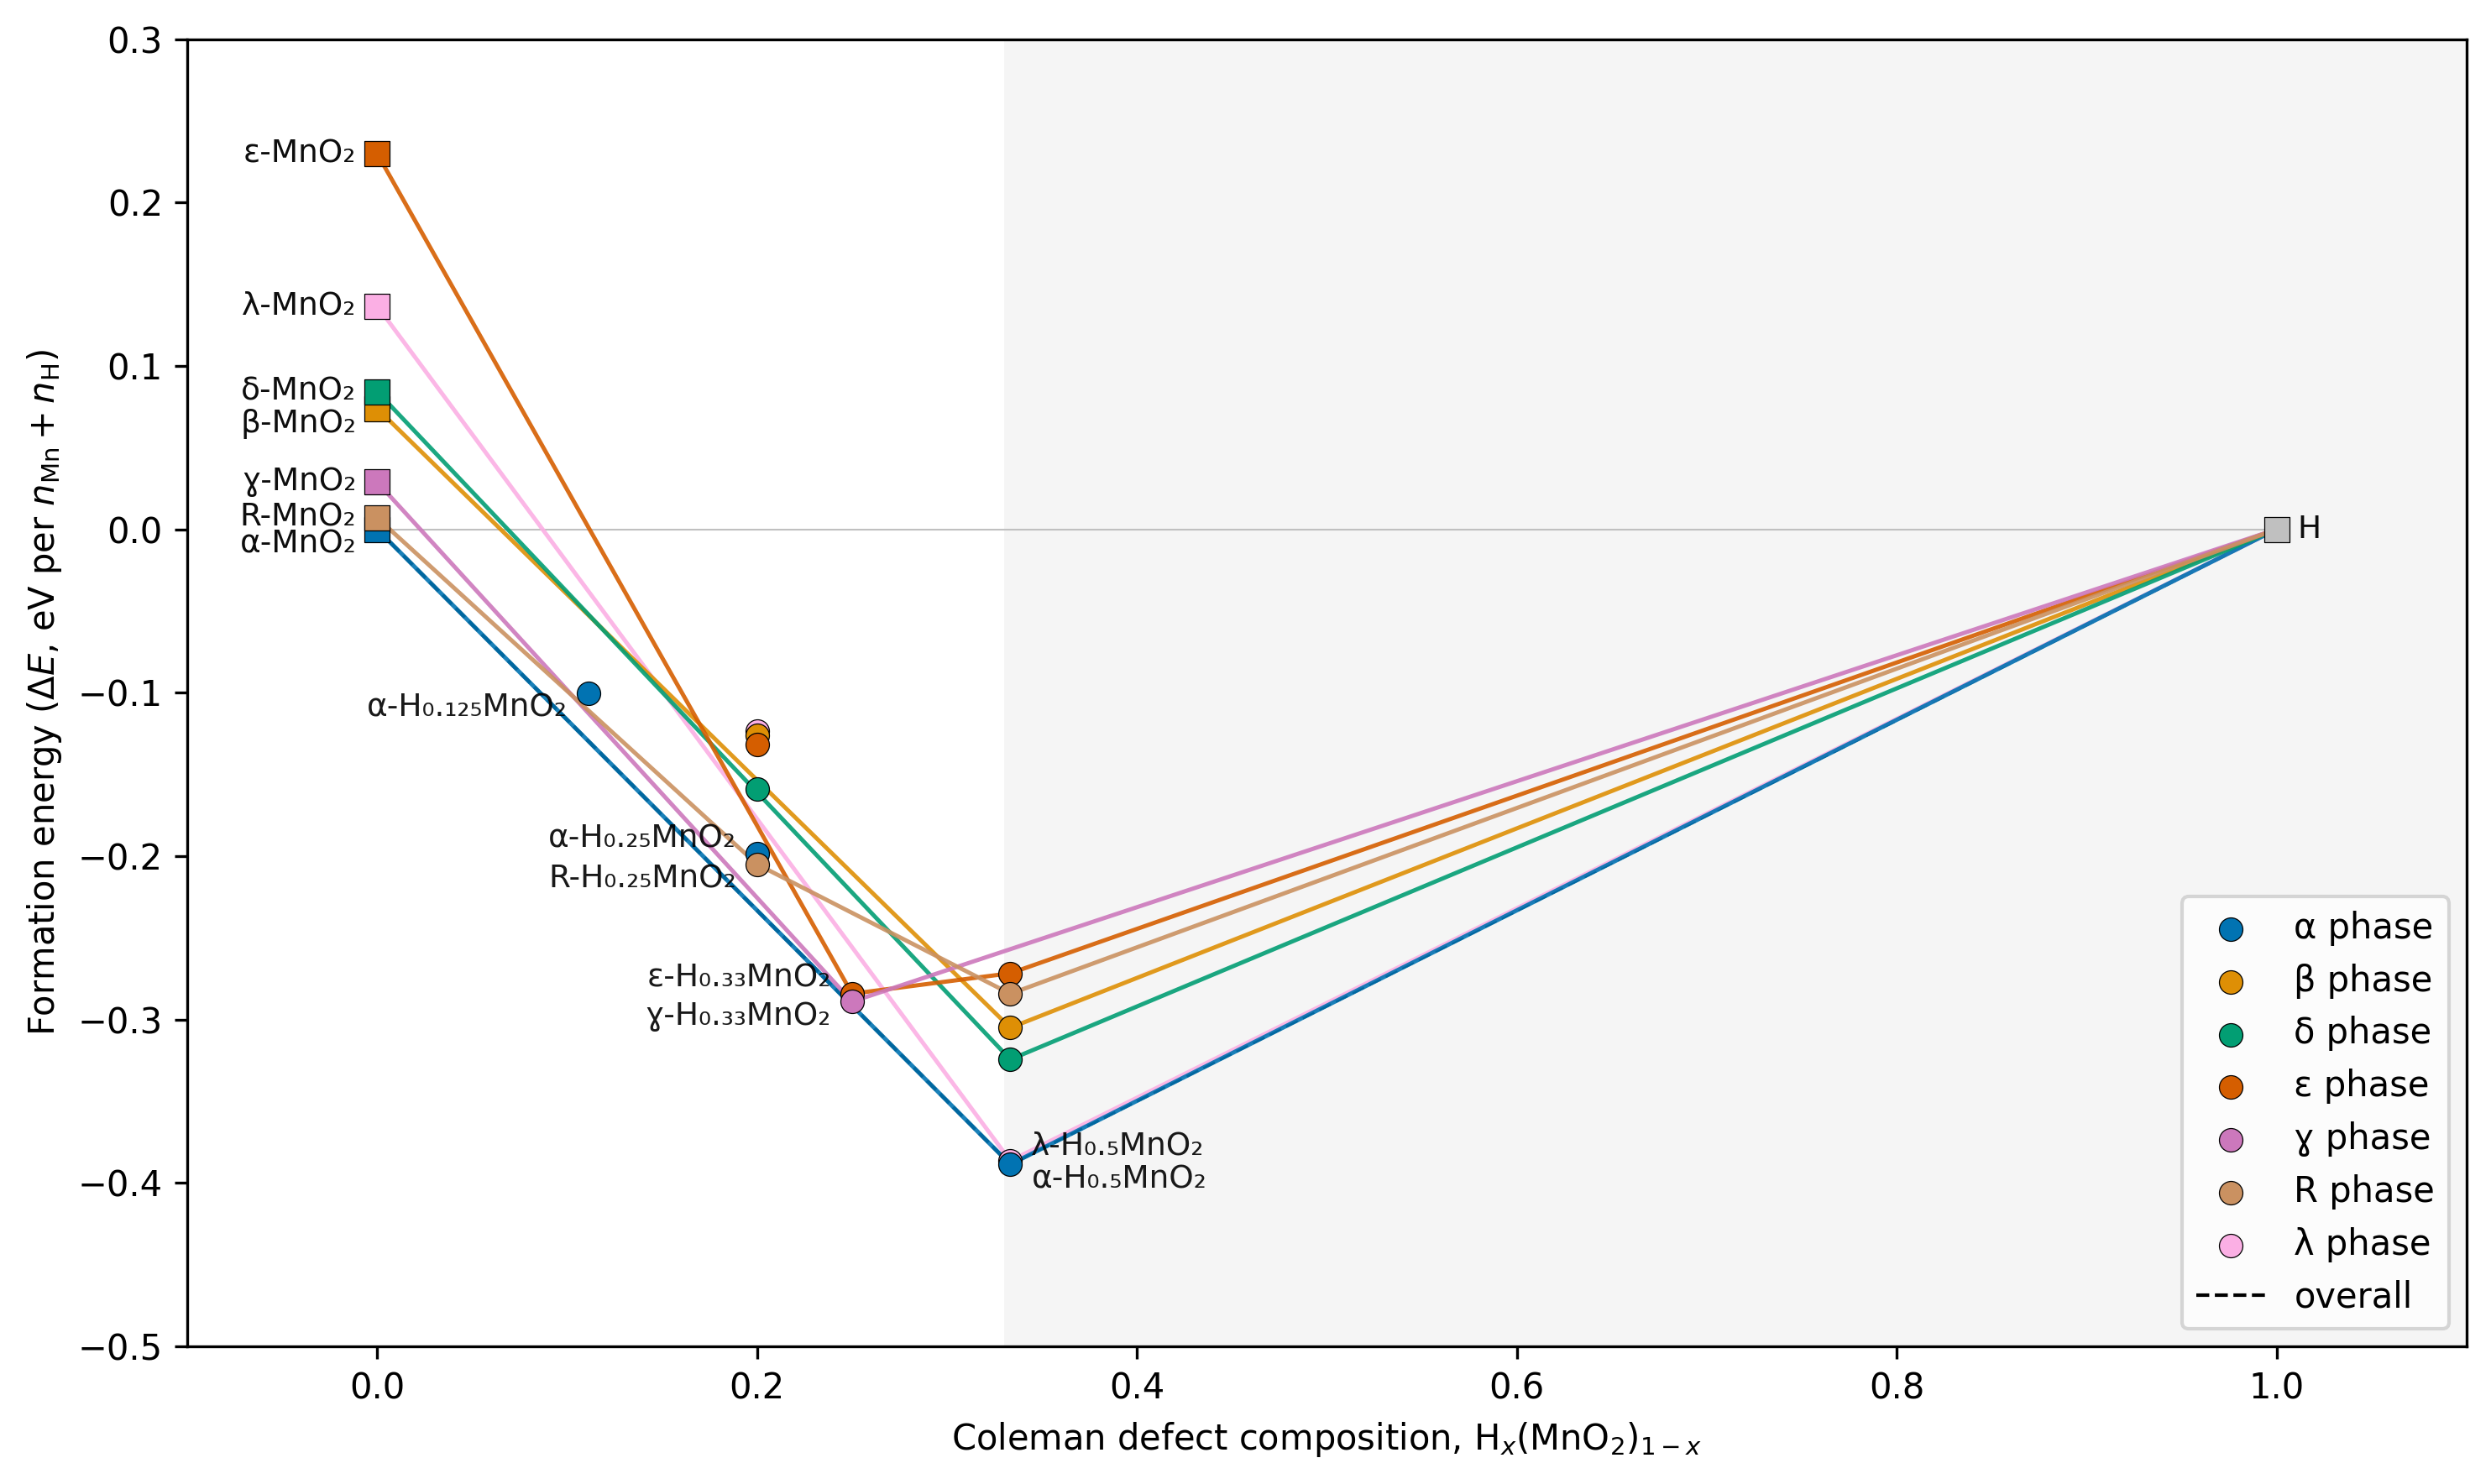
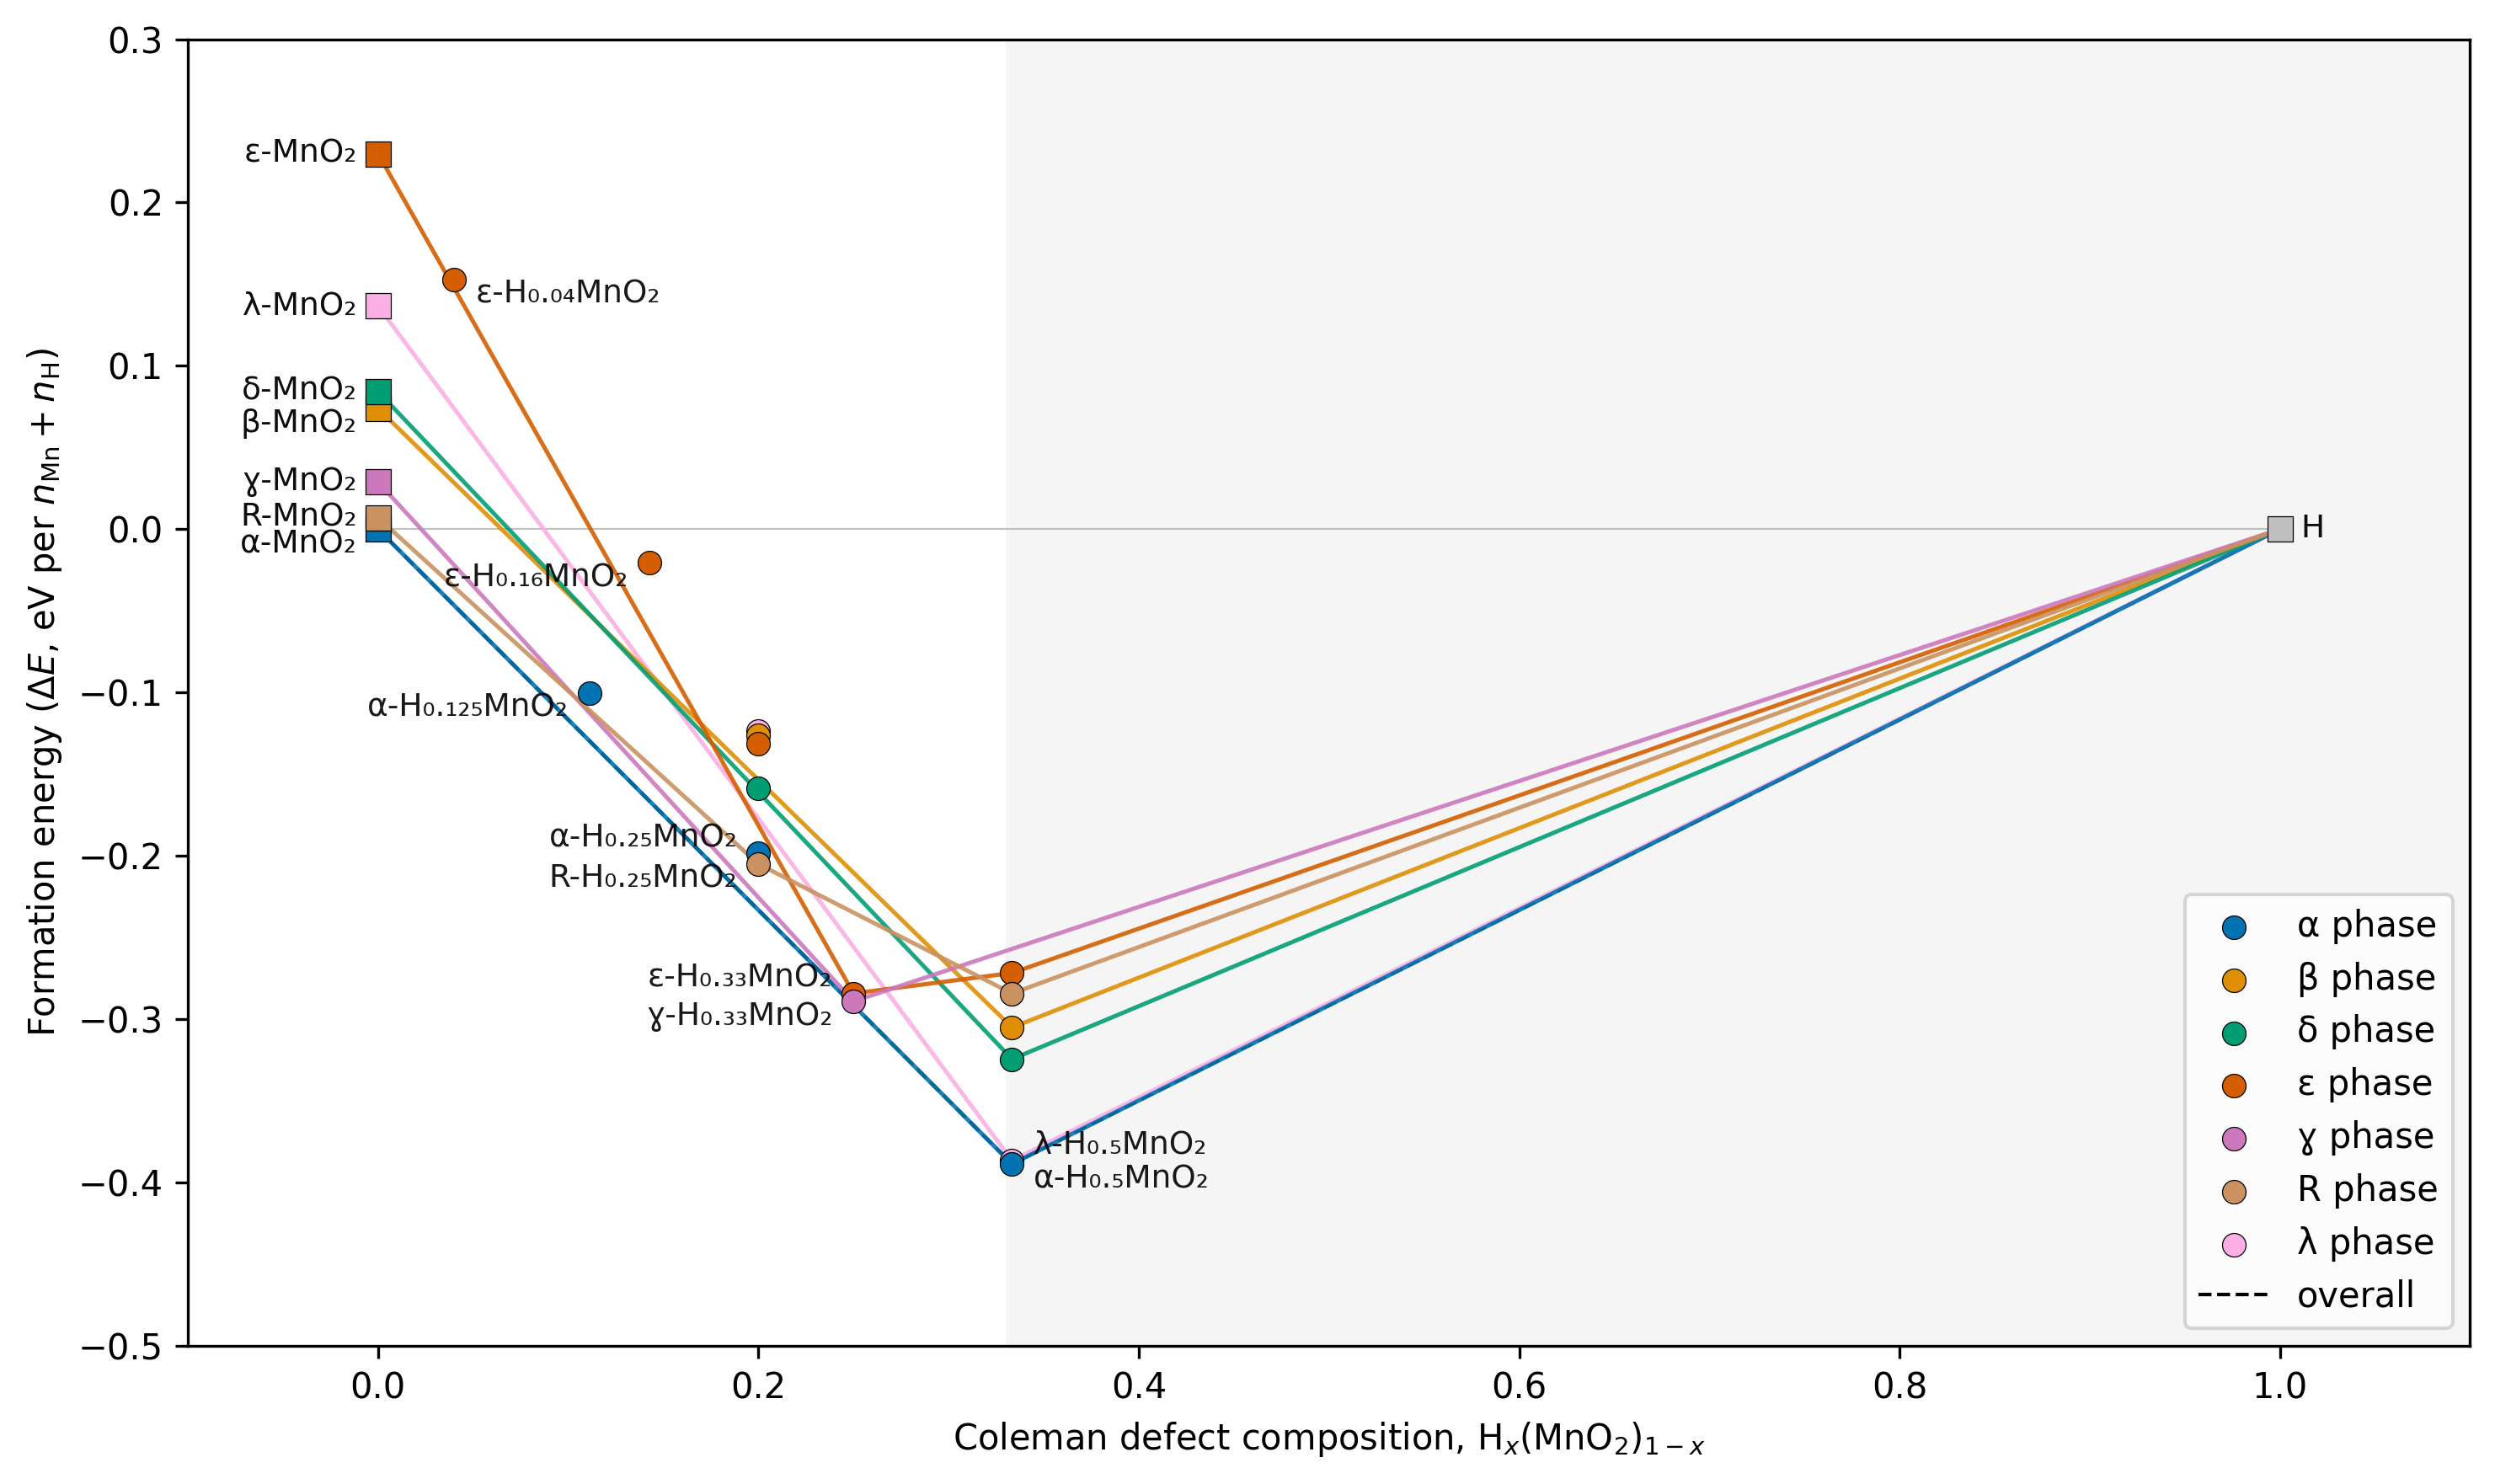
.

diff --git a/mno2/convex-hull-mno2-h.py b/mno2/convex-hull-mno2-h.py
@@ -324,7 +324,7 @@ def main():
             most_stable_by_composition[key] = p
 
     for p in sorted(most_stable_by_composition.values(), key=lambda item: item["x"]):
-        is_left = p["x"] <= 0.25
+        is_left = 0.05 < p["x"] <= 0.25
         plt.annotate(
             sanitize_annotation_text(subscript_digits(display_structure_name(p["name"]))),
             (p["x"], p["y"]),
@@ -339,7 +339,7 @@ def main():
     for p in points:
         if p["name"].lower() not in EXTRA_STRUCTURE_ANNOTATIONS:
             continue
-        is_left = p["x"] <= 0.25
+        is_left = 0.05 < p["x"] <= 0.25
         plt.annotate(
             sanitize_annotation_text(subscript_digits(display_structure_name(p["name"]))),
             (p["x"], p["y"]),